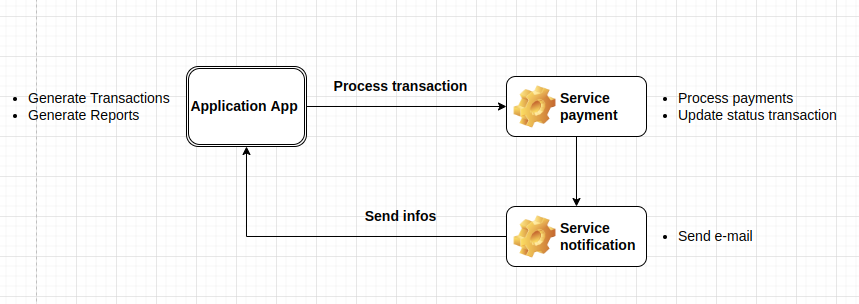
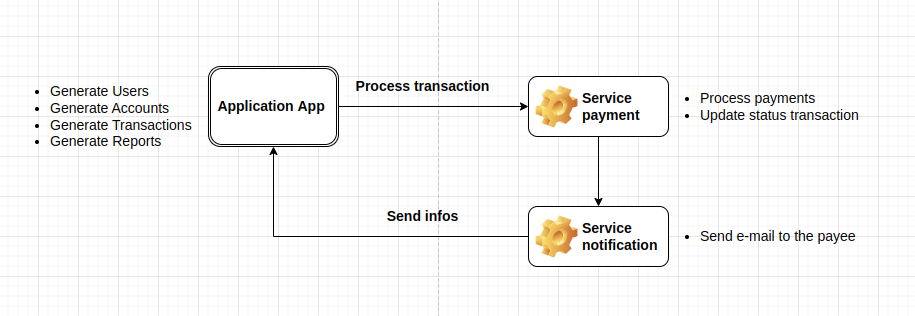
feat: update infos on structure of the project

Changed region(s): [[0.0303, 0.2072, 0.9686, 0.7401], [0.3027, 0.6217, 0.9383, 0.8882]]

diff --git a/README.md b/README.md
@@ -5,7 +5,7 @@
 ## Structure
 
 <h3 align="left">
-  <img alt="Structure" title="#structure" width="700px" src=".github/structure.png"><br>
+  <img alt="Structure of the project" title="#structure" width="800px" src=".github/structure.png"><br>
 </h3>
 
 ## :zap: Technologies
@@ -22,9 +22,9 @@
 - [x] Create micro services to payment
 - [x] Add typescript
 - [x] Create configuration process env
-- [x] Send e-mails
+- [x] Send emails to the payee of the transaction
 - [ ] Tests on projects
-- [ ] Create microservices to send e-mails
+- [ ] Create microservices to send emails
 - [ ] Create frontend
 
 ## :rocket: Development
@@ -35,12 +35,12 @@
 ❯ yarn server
 ```
 
-Open app application in bash
+Open app application in bash in src folder project
 
 ```console
 ❯ sudo docker-compose exec app sh
-❯ nest g resource resource-name // in src folder project
-❯ nest g service service-name // in src folder project
+❯ nest g resource resource-name
+❯ nest g service service-name
 ```
 
 ### Documentation API
